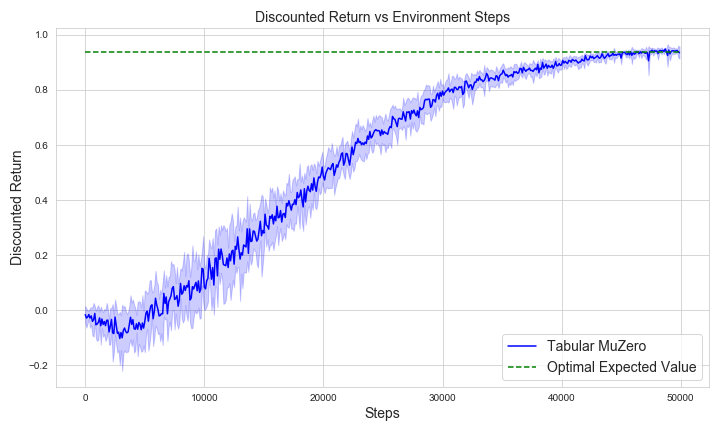
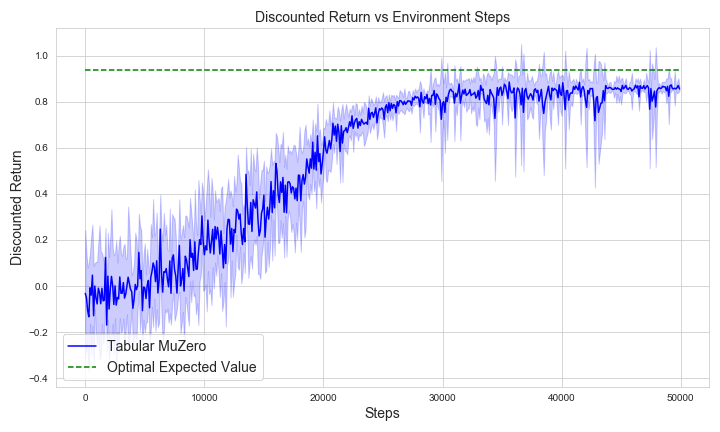
fix return calculation and update parameters

diff --git a/scripts/compare_planning_algorithms.py b/scripts/compare_planning_algorithms.py
@@ -14,7 +14,7 @@ def run_value_iteration(env):
     return v, pi
 
 
-def run_muzero(env, log_dir, total_steps=50000, steps_per_update=100, num_mcts_simulations=20, return_n=4):
+def run_muzero(env, log_dir, total_steps=50000, steps_per_update=100, num_mcts_simulations=50, return_n=4):
     max_steps = total_steps // steps_per_update
     model = TabularModel(env.observation_space, env.action_space)
     planner = MCTS(model,
@@ -34,9 +34,9 @@ def run_muzero(env, log_dir, total_steps=50000, steps_per_update=100, num_mcts_s
 def main():
     env = Maze()
     vi_v, _ = run_value_iteration(env)
-    num_experiments = 1
+    num_experiments = 10
     for i in range(num_experiments):
-        log_dir = "../data/gif_{}".format(i)
+        log_dir = "../data/muzero_{}".format(i)
         mu_v, _ = run_muzero(env, log_dir)
         env.render_value_function(vi_v, mode="text")
         env.render_value_function(mu_v, mode="text")

diff --git a/muzero/datasets/tabular_dataset.py b/muzero/datasets/tabular_dataset.py
@@ -14,7 +14,7 @@ class TabularDataset:
         samples = []
         for traj in trajectories:
             samples.extend(self._traj_to_samples(traj))
-        return samples, self._get_info(samples)
+        return samples, self._get_info(trajectories, samples)
 
     def _traj_to_samples(self, traj):
         length = len(traj["a"])
@@ -42,6 +42,10 @@ class TabularDataset:
             ))
         return samples
 
-    def _get_info(self, samples):
-        avg_return = sum(s[-1] for s in samples) / (len(samples) + 1e-8)
-        return dict(avg_discounted_return=avg_return)
+    def _get_info(self, trajectories, samples):
+        if len(trajectories) == 0:
+            return {}
+        avg_return = 0
+        for traj in trajectories:
+            avg_return += sum(r * self.discount**i for (i, r) in enumerate(traj["r"]))
+        return dict(avg_discounted_return=avg_return / len(trajectories))

diff --git a/muzero/planning/mcts.py b/muzero/planning/mcts.py
@@ -52,7 +52,7 @@ class MCTS(OnlinePlanningAlgorithm):
                  c1=1.25,
                  c2=20000,
                  initial_temp=10.0,
-                 final_temp=0.01,
+                 final_temp=0.0001,
                  num_temp_steps=1000):
         self.model = model
         self.num_simulations = num_simulations

diff --git a/muzero/models/tabular_model.py b/muzero/models/tabular_model.py
@@ -11,7 +11,7 @@ def _assert_is_index(v):
 
 
 class TabularModel:
-    def __init__(self, observation_space, action_space, value_lr=0.1):
+    def __init__(self, observation_space, action_space, value_lr=0.05):
         """
         Args:
             observation_space: The observation space of the environment.
